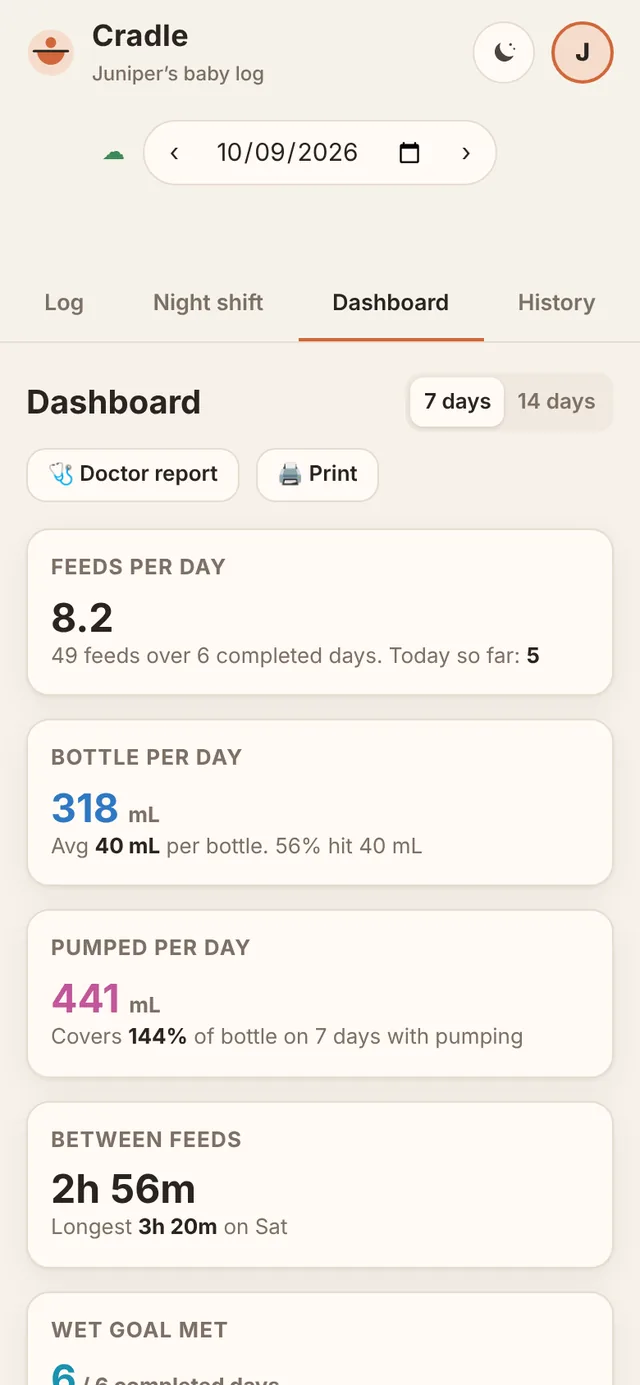
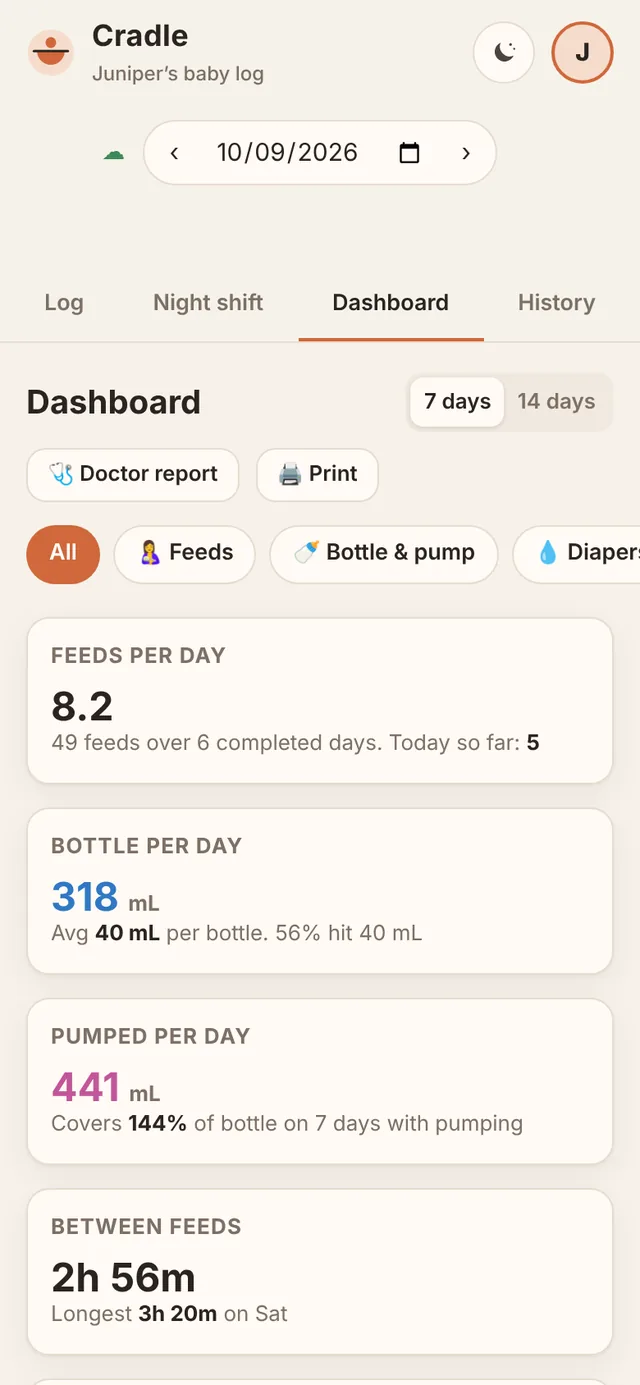
v1.14: Dashboard filters
- A row of chips under Print: All, Feeds, Bottle & pump, Diapers,
  Vitamin D, Weight, Baths
- Each shows only that topic's cards, charts, and insights; Insights
  hides when nothing in it matches
- Remembered per phone and kept across 7/14-day changes
- Print prints what's showing; the doctor report is unchanged
- Chips scroll sideways on a phone
- Guide, About, CHANGELOG, README, Using Cradle, and the overview
  (caption, footer version, new Dashboard screenshot) updated

Claude-Session: https://claude.ai/code/session_01C2LP9XX3HMhgrsmSLqk1xr

diff --git a/cradle.html b/cradle.html
@@ -158,6 +158,12 @@ nav.tabs button.on{color:var(--ink);border-color:var(--accent)}
 
 /* Section toolbar */
 .bar0{display:flex;align-items:center;gap:10px;margin-top:18px;flex-wrap:wrap}
+.dfilter{display:flex;gap:8px;overflow-x:auto;margin:12px -16px 0;padding:2px 16px 4px;scrollbar-width:none;-webkit-overflow-scrolling:touch}
+.dfilter::-webkit-scrollbar{display:none}
+.dfilter button{flex:0 0 auto;border:1px solid var(--line);background:var(--panel);color:var(--ink);border-radius:999px;padding:7px 13px;font-size:13.5px;font-weight:600;white-space:nowrap}
+.dfilter button.on{background:var(--accent);border-color:var(--accent);color:#fff}
+:root[data-theme="halloween"] .dfilter button.on{color:#1b1022}
+.fhide{display:none!important}
 .bar0 h2{margin:0;font-size:20px}
 .sm{padding:6px 12px!important;font-size:13px}
 
@@ -715,48 +721,49 @@ body.night-on .toast{background:#2c2621;color:#d9c3a5}
       <button class="ghost sm" data-report>🩺 Doctor report</button>
       <button class="ghost sm" data-print>🖨 Print</button>
     </div>
+    <div class="dfilter noprint" id="dashFilter" role="tablist" aria-label="Show on the Dashboard"><button data-f="all">All</button><button data-f="feeds">🤱 Feeds</button><button data-f="bottle">🍼 Bottle &amp; pump</button><button data-f="diapers">💧 Diapers</button><button data-f="vitd">☀ Vitamin D</button><button data-f="weight">⚖ Weight</button><button data-f="baths">🛁 Baths</button></div>
     <div class="grid kpis" id="kpis"></div>
     <div class="grid charts">
-      <div class="card wide">
+      <div class="card wide" data-cat="weight">
         <div class="chead"><h3>Weight</h3><span class="noprint" style="display:flex;gap:6px;margin:-6px 0 2px"><button class="ghost sm" data-addweight="list">See all</button><button class="ghost sm" data-addweight="add">+ Add weight</button></span></div>
         <div id="wChart"></div>
         <div class="legend"><span><i style="background:var(--bottle);border-radius:50%"></i>Weigh-in</span><span><i style="background:var(--panel);border:2px solid var(--bottle);border-radius:50%"></i>Weighted feed (before)</span><span><i style="background:var(--good);height:3px;vertical-align:3px"></i>Birth weight</span><span><i style="background:var(--warn);height:3px;vertical-align:3px"></i>10% below birth</span></div>
         <div class="wstats" id="wStats"></div>
       </div>
-      <div class="card wide">
+      <div class="card wide" id="insCard">
         <h3>Insights</h3>
         <ul class="insights" id="insights"></ul>
       </div>
-      <div class="card wide">
+      <div class="card wide" data-cat="vitd">
         <h3>Vitamin D</h3>
         <div class="sub" id="vitSum" style="margin-bottom:10px"></div>
         <div class="vstrip" id="vitStrip"></div>
       </div>
-      <div class="card wide">
+      <div class="card wide" data-cat="feeds bottle">
         <div class="chead"><h3 id="c1title">This day by feed</h3><button class="xbtn noprint" data-chart="c1" title="Enlarge and explore">⤢</button></div>
         <div id="chart1" class="chartbox" data-chart="c1" title="Tap to enlarge"></div>
         <div class="legend"><span><i style="background:var(--bottle)"></i>Bottle</span><span><i style="background:repeating-linear-gradient(45deg,var(--pump) 0 2px,transparent 2px 4px);border:1px solid var(--pump)"></i>Pump output</span><span><i style="background:var(--accent);height:3px;vertical-align:3px"></i>Bottle target</span></div>
       </div>
-      <div class="card">
+      <div class="card" data-cat="bottle">
         <div class="chead"><h3>Daily volume</h3><button class="xbtn noprint" data-chart="c2" title="Enlarge and explore">⤢</button></div>
         <div id="chart2" class="chartbox" data-chart="c2" title="Tap to enlarge"></div>
         <div class="legend"><span><i style="background:var(--bottle)"></i>Bottle total</span><span><i style="background:var(--pump)"></i>Pump total (dashed)</span></div>
       </div>
-      <div class="card">
+      <div class="card" data-cat="diapers">
         <div class="chead"><h3>Daily diapers</h3><button class="xbtn noprint" data-chart="c3" title="Enlarge and explore">⤢</button></div>
         <div id="chart3" class="chartbox" data-chart="c3" title="Tap to enlarge"></div>
         <div class="legend"><span><i style="background:var(--wet)"></i>Wet</span><span><i style="background:var(--stool)"></i>Stool</span><span>Dashes mark each day's goal. Faded bars are today, still in progress.</span></div>
       </div>
-      <div class="card">
+      <div class="card" data-cat="feeds">
         <div class="chead"><h3>Longest stretch between feeds</h3><button class="xbtn noprint" data-chart="c5" title="Enlarge and explore">⤢</button></div>
         <div id="chart5" class="chartbox" data-chart="c5" title="Tap to enlarge"></div>
         <div class="legend"><span>Hours per day. The dot shows the average gap.</span></div>
       </div>
-      <div class="card">
+      <div class="card" data-cat="feeds">
         <h3>Breast side balance</h3>
         <div id="sideBal"></div>
       </div>
-      <div class="card wide">
+      <div class="card wide" data-cat="feeds vitd">
         <div class="chead"><h3>Feeding rhythm</h3><button class="xbtn noprint" data-chart="c4" title="Enlarge and explore">⤢</button></div>
         <div id="chart4" class="chartbox" data-chart="c4" title="Tap to enlarge"></div>
         <div class="legend"><span><i style="background:var(--accent);border-radius:50%"></i>Feed (bigger dot means more bottle)</span><span>☀ Vitamin D</span></div>
@@ -789,7 +796,7 @@ body.night-on .toast{background:#2c2621;color:#d9c3a5}
       <div class="card"><div class="ico">🛁</div><h3>Baths</h3><p>Tap <b>🛁 Bath</b> under Since last feed to log a bath with the current time. Choose <b>Sponge</b> or <b>Tub</b> and add a note if you like, such as a hair wash or nail trim. Cradle remembers which kind you used last. Baths don’t count as feeds, so they never change feed totals or when the next feed is due. The Log shows today’s bath or when the last one was, and the Dashboard, History, print sheet, and doctor report all include baths.</p></div>
       <div class="card"><div class="ico">☀</div><h3>Vitamin D</h3><p>Tap ☀ on the feed where you gave the drops. Giving them at the same feed each day, like the first morning feed, makes it easier to remember. You'll get a heads-up if it's already logged that day.</p></div>
       <div class="card"><div class="ico">⏱</div><h3>Pump timer</h3><p>Start the timer when you start pumping. The green arc shows your target window.</p></div>
-      <div class="card"><div class="ico">📊</div><h3>Dashboard</h3><p>Shows the last 7 or 14 days ending on the day you have selected, including how many baths and when the last one was. Tap any chart to enlarge it, then tap a day or feed for details. The side balance also shows nursing time on each side, from the minutes and the split slider. Today counts as in progress until midnight.</p></div>
+      <div class="card"><div class="ico">📊</div><h3>Dashboard</h3><p>Shows the last 7 or 14 days ending on the day you have selected, including how many baths and when the last one was. Tap a chip under Print (<b>Feeds</b>, <b>Bottle &amp; pump</b>, <b>Diapers</b>, <b>Vitamin D</b>, <b>Weight</b>, <b>Baths</b>) to see just that topic, or <b>All</b> for everything. Print prints what’s showing. Tap any chart to enlarge it, then tap a day or feed for details. The side balance also shows nursing time on each side, from the minutes and the split slider. Today counts as in progress until midnight.</p></div>
       <div class="card wide-guide"><div class="ico">💬</div><h3>Send updates by text</h3>
         <p>Each phone keeps its own copy of the log. To catch the other person up:</p>
         <ol class="steps">
@@ -1072,10 +1079,12 @@ body.night-on .toast{background:#2c2621;color:#d9c3a5}
 <div class="modal" id="aboutModal">
   <div class="card">
     <h3>About Cradle</h3>
-    <p style="margin:0 0 8px"><b>Cradle v1.13</b><br><span class="sub">A baby log that works offline and syncs between family phones through your own Supabase project. No external libraries.</span></p>
+    <p style="margin:0 0 8px"><b>Cradle v1.14</b><br><span class="sub">A baby log that works offline and syncs between family phones through your own Supabase project. No external libraries.</span></p>
     <p class="sub" style="margin:0 0 8px;padding:10px 12px;border-radius:12px;background:var(--accent-soft)"><b>Not medical advice.</b> Cradle is a notebook. Goals in the app are placeholders, so follow your pediatrician or care team, and call them if you’re worried about your baby.<br><br><b>Built with AI.</b> Cradle was built with help from Claude, an AI model by Anthropic. It has been tested but not independently reviewed, so keep backups with Export data (in Data management).</p>
     <div class="donate hidden" id="donateBox"><span style="font-size:22px">☕</span><div><b>Enjoying Cradle?</b><div class="sub">It’s free. If it helps your family, you can buy me a coffee.</div></div><a class="primary" id="donateLink" href="#" target="_blank" rel="noopener noreferrer">Buy me a coffee</a></div>
     <h3 style="margin-top:14px">Changelog</h3>
+    <b>v1.14</b>
+    <ul class="cl"><li>Dashboard filters: chips under Print (All, Feeds, Bottle &amp; pump, Diapers, Vitamin D, Weight, Baths) show just that topic’s cards and insights</li><li>Cradle remembers your filter, and Print prints what’s showing</li></ul>
     <b>v1.13</b>
     <ul class="cl"><li>🦃 Thanksgiving mode: warm cream and maple colors, falling leaves and acorns, and an acorn cap on the logo</li><li>🎄 Christmas mode: snowy white with red and evergreen, falling snowflakes, a candy-cane stripe under the header, and a Santa hat on the logo</li><li>Both are in Appearance under Fun themes, next to Halloween, and like every theme they’re just for this phone</li><li>A shorter profile menu: <b>Data management</b> holds export, import, print, erase all data, and sign out and remove from this phone. Fun themes sit in a small grid.</li><li>☕ An optional Buy me a coffee button, when your Cradle has a donation link set</li></ul>
     <b>v1.12</b>
@@ -1113,7 +1122,7 @@ body.night-on .toast{background:#2c2621;color:#d9c3a5}
 <script type="application/json" id="baseData">{}</script>
 <script>
 (function(){
-const VERSION='1.13';
+const VERSION='1.14';
 const LS='cradle-feeding-v1';
 const $=s=>document.querySelector(s);
 const $$=s=>document.querySelectorAll(s);
@@ -1561,16 +1570,16 @@ function renderDash(){
   if(!logged.length){
     $('#kpis').innerHTML=`<div class="empty" style="grid-column:1/-1">No feeds logged in the ${n} days ending ${longDate(cur)}.</div>`;
   }else $('#kpis').innerHTML=`
-    <div class="card kpi"><h3>Feeds per day</h3><div class="big">${(baseFeeds.length/ld).toFixed(1)}</div><div class="sub">${baseFeeds.length} feeds over ${base.length} ${dl}${todayX&&done.length?'. Today so far: <b>'+todayX.t.n+'</b>':''}</div></div>
-    <div class="card kpi"><h3>Bottle per day</h3><div class="big" style="color:var(--bottle)">${Math.round(totBd/ld)} <span class="sub">mL</span></div><div class="sub">Avg <b>${bottled.length?Math.round(totB/bottled.length):0} mL</b> per bottle. ${bottled.length?Math.round(hit/bottled.length*100):0}% hit ${st.target} mL</div></div>
-    <div class="card kpi"><h3>Pumped per day</h3><div class="big" style="color:var(--pump)">${pDays.length?Math.round(totP/pDays.length):'--'} <span class="sub">mL</span></div><div class="sub">${!pDays.length?'No pump output logged in this range':totBp?'Covers <b>'+Math.round(totP/totBp*100)+'%</b> of bottle on '+pDays.length+' day'+(pDays.length>1?'s':'')+' with pumping':'Logged on '+pDays.length+' day'+(pDays.length>1?'s':'')}</div></div>
-    <div class="card kpi"><h3>Between feeds</h3><div class="big">${avgGap?hm(avgGap):'--'}</div><div class="sub">${longest?'Longest <b>'+hm(longest.g)+'</b> on '+xlab(longest.dt):'Average gap'}</div></div>
-    <div class="card kpi"><h3>Wet goal met</h3><div class="big" style="color:var(--wet)">${wetMet}<span class="sub"> / ${done.length} completed day${done.length===1?'':'s'}</span></div><div class="sub">Avg ${(base.reduce((t,x)=>t+x.t.wet,0)/ld).toFixed(1)} per day${todayX?'. Today so far: <b>'+todayX.t.wet+' of '+todayX.g.wet+'</b>':''}</div></div>
-    <div class="card kpi"><h3>Stool goal met</h3><div class="big" style="color:var(--stool)">${stoolMet}<span class="sub"> / ${done.length} completed day${done.length===1?'':'s'}</span></div><div class="sub">Avg ${(base.reduce((t,x)=>t+x.t.stool,0)/ld).toFixed(1)} per day${todayX?'. Today so far: <b>'+todayX.t.stool+' of '+todayX.g.stool+'</b>':''}</div></div>
-    <div class="card kpi"><h3>Vitamin D</h3><div class="big" style="color:var(--good)">${vitDays}<span class="sub"> / ${vDue} day${vDue===1?'':'s'}</span></div><div class="sub">${S.settings.vitDStart&&vDue<n?'Started '+vitStartS()+'. ':''}${streak?'<b>'+streak+' day</b> streak':'No current streak'}${usualS?'. Usually '+usualS:''}</div></div>
+    <div class="card kpi" data-cat="feeds"><h3>Feeds per day</h3><div class="big">${(baseFeeds.length/ld).toFixed(1)}</div><div class="sub">${baseFeeds.length} feeds over ${base.length} ${dl}${todayX&&done.length?'. Today so far: <b>'+todayX.t.n+'</b>':''}</div></div>
+    <div class="card kpi" data-cat="bottle"><h3>Bottle per day</h3><div class="big" style="color:var(--bottle)">${Math.round(totBd/ld)} <span class="sub">mL</span></div><div class="sub">Avg <b>${bottled.length?Math.round(totB/bottled.length):0} mL</b> per bottle. ${bottled.length?Math.round(hit/bottled.length*100):0}% hit ${st.target} mL</div></div>
+    <div class="card kpi" data-cat="bottle"><h3>Pumped per day</h3><div class="big" style="color:var(--pump)">${pDays.length?Math.round(totP/pDays.length):'--'} <span class="sub">mL</span></div><div class="sub">${!pDays.length?'No pump output logged in this range':totBp?'Covers <b>'+Math.round(totP/totBp*100)+'%</b> of bottle on '+pDays.length+' day'+(pDays.length>1?'s':'')+' with pumping':'Logged on '+pDays.length+' day'+(pDays.length>1?'s':'')}</div></div>
+    <div class="card kpi" data-cat="feeds"><h3>Between feeds</h3><div class="big">${avgGap?hm(avgGap):'--'}</div><div class="sub">${longest?'Longest <b>'+hm(longest.g)+'</b> on '+xlab(longest.dt):'Average gap'}</div></div>
+    <div class="card kpi" data-cat="diapers"><h3>Wet goal met</h3><div class="big" style="color:var(--wet)">${wetMet}<span class="sub"> / ${done.length} completed day${done.length===1?'':'s'}</span></div><div class="sub">Avg ${(base.reduce((t,x)=>t+x.t.wet,0)/ld).toFixed(1)} per day${todayX?'. Today so far: <b>'+todayX.t.wet+' of '+todayX.g.wet+'</b>':''}</div></div>
+    <div class="card kpi" data-cat="diapers"><h3>Stool goal met</h3><div class="big" style="color:var(--stool)">${stoolMet}<span class="sub"> / ${done.length} completed day${done.length===1?'':'s'}</span></div><div class="sub">Avg ${(base.reduce((t,x)=>t+x.t.stool,0)/ld).toFixed(1)} per day${todayX?'. Today so far: <b>'+todayX.t.stool+' of '+todayX.g.stool+'</b>':''}</div></div>
+    <div class="card kpi" data-cat="vitd"><h3>Vitamin D</h3><div class="big" style="color:var(--good)">${vitDays}<span class="sub"> / ${vDue} day${vDue===1?'':'s'}</span></div><div class="sub">${S.settings.vitDStart&&vDue<n?'Started '+vitStartS()+'. ':''}${streak?'<b>'+streak+' day</b> streak':'No current streak'}${usualS?'. Usually '+usualS:''}</div></div>
     ${(()=>{const bs=L.flatMap(x=>bathsOf(x.d).map(f=>({k:x.k,f}))),lb=lastBath(L[n-1].k),sp=bs.filter(b=>b.f.bath==='sponge').length,tb=bs.filter(b=>b.f.bath==='tub').length;
-      return `<div class="card kpi"><h3>Baths</h3><div class="big" style="color:var(--wet)">${bs.length}<span class="sub"> in ${n} days</span></div><div class="sub">${lb?'Last <b>'+dlong(parseK(lb.k))+'</b>'+' ('+daysAgo(lb.k)+')'+(bs.length?'. '+[sp?sp+' sponge':'',tb?tb+' tub':''].filter(Boolean).join(', '):''):'No baths logged yet'}</div></div>`})()}
-    <div class="card kpi"><h3>Side starts</h3><div class="big">${startL}<span class="sub"> L</span> ${startR}<span class="sub"> R</span></div><div class="sub">${both} of ${nursed} sessions used both sides</div></div>`;
+      return `<div class="card kpi" data-cat="baths"><h3>Baths</h3><div class="big" style="color:var(--wet)">${bs.length}<span class="sub"> in ${n} days</span></div><div class="sub">${lb?'Last <b>'+dlong(parseK(lb.k))+'</b>'+' ('+daysAgo(lb.k)+')'+(bs.length?'. '+[sp?sp+' sponge':'',tb?tb+' tub':''].filter(Boolean).join(', '):''):'No baths logged yet'}</div></div>`})()}
+    <div class="card kpi" data-cat="feeds"><h3>Side starts</h3><div class="big">${startL}<span class="sub"> L</span> ${startR}<span class="sub"> R</span></div><div class="sub">${both} of ${nursed} sessions used both sides</div></div>`;
   const ins=[];
   if(logged.length){
     if(todayX)ins.push(['⏳',`Today is still in progress, so it isn't counted in daily averages or goal checks yet. So far today: ${todayX.t.n} feed${todayX.t.n===1?'':'s'}, ${Math.round(todayX.t.bottle)} mL bottle, ${todayX.t.wet} of ${todayX.g.wet} wet, ${todayX.t.stool} of ${todayX.g.stool} stool${vitDue(todayK)?', Vitamin D '+(todayX.v.given?'given':'not yet'):''}.`]);
@@ -1591,7 +1600,8 @@ function renderDash(){
     {const st=sideTotals(baseFeeds),tt=st.L+st.R;if(tt>=30){const pl=Math.round(st.L/tt*100);ins.push(['⚖',`Nursing time split ${pl}% left and ${100-pl}% right (${hm(st.L)} left, ${hm(st.R)} right)${Math.abs(pl-50)>=15?`, so the ${pl>50?'right':'left'} side has been getting less time`:''}.`])}}
     if(lastSide)ins.push(['🤱',`Started on Left ${startL} times and Right ${startR} times. Start on ${lastSide.start==='L'?'Right':'Left'} next.`]);
   }
-  $('#insights').innerHTML=ins.length?ins.map(x=>`<li><span>${x[0]}</span><span>${x[1]}</span></li>`).join(''):'<li><span>ℹ</span><span>Log a few feeds to see insights here.</span></li>';
+  const IC={'⏳':'feeds bottle diapers vitd','🍼':'bottle','⚡':'bottle','📈':'bottle','📉':'bottle','⏱':'feeds','🌙':'feeds','💧':'diapers','💩':'diapers','☀':'vitd','🛁':'baths','⚖':'feeds','🤱':'feeds'};
+  $('#insights').innerHTML=ins.length?ins.map(x=>`<li data-cat="${IC[x[0]]||'feeds'}"><span>${x[0]}</span><span>${x[1]}</span></li>`).join(''):'<li><span>ℹ</span><span>Log a few feeds to see insights here.</span></li>';
   $('#vitSum').innerHTML=`${S.settings.vitDStart?'Started <b>'+vitStartS()+'</b>. ':''}Given on <b>${vitDays} of ${vDue}</b> day${vDue===1?'':'s'} since starting.${streak?' Current streak: <b>'+streak+' day'+(streak>1?'s':'')+'</b>.':''}${usualS?' Usual time: <b>'+usualS+'</b>.':''}`;
   $('#vitStrip').style.gridTemplateColumns=`repeat(${n},minmax(0,1fr))`;
   $('#vitStrip').innerHTML=L.map(x=>{const due=vitDue(x.k);return `<div class="vday ${x.v.given?'on':''} ${due?'':'na'} ${x.k===cur?'cur':''}" data-tip="${dlong(x.dt)}: ${x.v.given?'given'+(x.v.time?' at '+fmt12(x.v.time):''):due?'not logged':'before Vitamin D started'}"><b>${xlab(x.dt)}</b><div class="s">${due?'☀':'·'}</div><span class="sub">${x.v.given?(x.v.time?fmt12(x.v.time):'✓'):due?'--':'Not started'}</span></div>`}).join('');
@@ -1608,8 +1618,16 @@ function renderDash(){
   $('#chart3').innerHTML=chartDiapers(L);
   $('#chart4').innerHTML=chartRhythm(L);
   $('#chart5').innerHTML=chartGaps(L,per);
-  renderWeight();
+  renderWeight();applyDashFilter();
 }
+// Dashboard filter: show only the cards (and insights) for one topic
+function applyDashFilter(){const f=S.ui.dashFilter||'all',sec=$('#tab-dash');
+  $$('#dashFilter button').forEach(b=>{const on=b.dataset.f===f;b.classList.toggle('on',on);b.setAttribute('aria-selected',on)});
+  sec.querySelectorAll('[data-cat]').forEach(el=>el.classList.toggle('fhide',f!=='all'&&!el.dataset.cat.split(' ').includes(f)));
+  const ic=$('#insCard');if(ic)ic.classList.toggle('fhide',f!=='all'&&!$('#insights li[data-cat]:not(.fhide)'));
+  const k=$('#kpis');k.classList.toggle('fhide',f!=='all'&&!k.querySelector('.kpi:not(.fhide)'));
+}
+$('#dashFilter').onclick=e=>{const b=e.target.closest('[data-f]');if(!b)return;S.ui.dashFilter=b.dataset.f;save();applyDashFilter();b.scrollIntoView({block:'nearest',inline:'nearest',behavior:'smooth'})};
 $('#rangeSeg').onclick=e=>{const b=e.target.closest('button');if(!b)return;S.ui.range=+b.dataset.n;save();renderDash()};
 
 /* History */

diff --git a/docs/overview.html b/docs/overview.html
@@ -277,7 +277,7 @@ footer code{font-family:var(--mono); font-size:13px}
   </div>
   <div class="screens">
     <figure><div class="phone"><img src="screenshots/log.webp" alt="Log tab"></div><figcaption class="cap"><b>Log</b>Time since the last feed, which side to start on, when the next feed is due.</figcaption></figure>
-    <figure><div class="phone"><img src="screenshots/dash.webp" alt="Dashboard tab"></div><figcaption class="cap"><b>Dashboard</b>7 or 14 days of trends. Today counts as in progress until midnight.</figcaption></figure>
+    <figure><div class="phone"><img src="screenshots/dash.webp" alt="Dashboard tab"></div><figcaption class="cap"><b>Dashboard</b>7 or 14 days of trends, with chips to show one topic at a time. Today counts as in progress until midnight.</figcaption></figure>
     <figure><div class="phone"><img src="screenshots/zoom.webp" alt="An enlarged dashboard chart with the details of one feed"></div><figcaption class="cap"><b>Tap any chart</b>Enlarge it, then tap a day or a single feed for the details.</figcaption></figure>
     <figure><div class="phone"><img src="screenshots/game.webp" alt="Bottle Catch: a basket at the bottom catching falling bottles while dodging safety pins"></div><figcaption class="cap"><b>Fun center</b>Bottle Catch: two minutes, one thumb, and arcade-style high scores with your initials.</figcaption></figure>
     <figure><div class="phone"><img src="screenshots/hist.webp" alt="History tab with a card for each day"></div><figcaption class="cap"><b>History</b>Every day as a card or a table, with diaper goals checked off.</figcaption></figure>
@@ -441,7 +441,7 @@ footer code{font-family:var(--mono); font-size:13px}
 
 <footer>
   <div class="wrap">
-    <span><b style="color:var(--ink)">Cradle v1.11</b> · PolyForm Noncommercial 1.0.0 · Screenshots show example data for a made-up baby.</span>
+    <span><b style="color:var(--ink)">Cradle v1.14</b> · PolyForm Noncommercial 1.0.0 · Screenshots show example data for a made-up baby.</span>
     <span>Source and setup guide: <a href="https://github.com/skboyce28/Cradle">github.com/skboyce28/Cradle</a></span>
   </div>
 </footer>

diff --git a/README.md b/README.md
@@ -26,7 +26,7 @@ Nurse, bottle, pump, diapers, Vitamin D, and baths, shared live between family p
 |---|---|
 | **Log** | One row per feed: left/right breast (with which side you started), nursing minutes with a ▶ timer, a slider that splits the minutes between sides, bottle mL, pump mL, wet, stool, Vitamin D, notes. 🧷 diaper-only and 🛁 bath rows (sponge or tub) that don't count as feeds. |
 | **Night shift** | A dim, low-glare screen with huge buttons for one-handed night feeds, plus quick Diaper only and Bath buttons. Warm, Moonlight, or Red colors. |
-| **Dashboard** | 7 or 14 days of trends: feeds, nursing minutes, bottle and pump volume, diapers against goals, Vitamin D, side balance and time on each side, longest stretch, weight against birth weight. Tap any chart to enlarge and explore it. Today shows as "in progress" until midnight. |
+| **Dashboard** | 7 or 14 days of trends, with filter chips to show one topic at a time: feeds, nursing minutes, bottle and pump volume, diapers against goals, Vitamin D, side balance and time on each side, longest stretch, weight against birth weight. Tap any chart to enlarge and explore it. Today shows as "in progress" until midnight. |
 | **History** | Every day at a glance, as cards or a table. |
 | **Next feed** | When the next feed is due, with an in-app chime, vibration, Snooze, and Dismiss. |
 | **Calm** | The 🌙 button at the top right: a slow screensaver with the time, time since the last feed, and spa music, ocean, rain, or white noise. |

diff --git a/CHANGELOG.md b/CHANGELOG.md
@@ -1,5 +1,20 @@
 # Changelog
 
+## v1.14
+
+**Dashboard filters**
+- A row of chips under Print: **All**, **🤱 Feeds**, **🍼 Bottle & pump**, **💧 Diapers**, **☀ Vitamin D**, **⚖ Weight**, **🛁 Baths**
+- Each shows only that topic's cards, charts, and insights:
+  - **Feeds:** feeds per day, between feeds, side starts, the day's feeds chart, longest stretch, side balance, and feeding rhythm
+  - **Bottle & pump:** bottle and pumped per day, the day's feeds chart, and daily volume
+  - **Diapers:** wet and stool goals, and daily diapers
+  - **Vitamin D:** the Vitamin D tile and strip, and feeding rhythm (which marks the drops)
+  - **Weight:** the weight chart and stats
+  - **Baths:** the baths tile and insight
+- Remembered per phone, and kept when you switch between 7 and 14 days
+- **Print** prints what's showing, so you can print just the weight chart, for example. The doctor report is unchanged.
+- On a phone the chips scroll sideways
+
 ## v1.13
 
 **Two more seasonal themes**, in Appearance under **Fun themes**, next to Halloween:

diff --git a/docs/using-cradle.md b/docs/using-cradle.md
@@ -91,6 +91,8 @@ The 7 or 14 days ending on the selected day:
 - Baths: how many, sponge or tub, and when the last one was
 - Weight against birth weight
 
+**Filter chips** under the Print button narrow the Dashboard to one topic: **Feeds**, **Bottle & pump**, **Diapers**, **Vitamin D**, **Weight**, or **Baths**. Only that topic's cards and insights show; **All** brings everything back. Cradle remembers your choice on this phone, and **Print** prints what's showing.
+
 **Tap any chart to enlarge it**, then tap a day or a feed for details. **Today counts as "in progress"** until midnight, so a goal that isn't met *yet* isn't shown as missed.
 
 **+ Add weight** logs a weight from a visit. Type it like `7 lb 3.5 oz` or `3270 g`.
